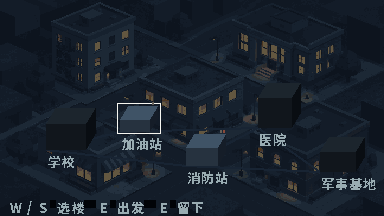
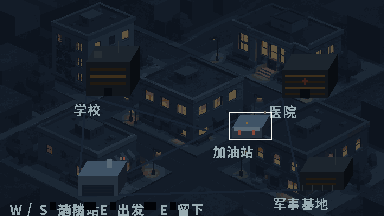
feat(map): 楼位数据驱动 + 每栋楼加可识别细节 + 楼名不再被裁断
你指出的三个问题逐条修：
1) 方块是光板 -> 按职能长细节：
   学校 水塔/天线/三排教室窗/大门；医院 红十字/四排窗/大门；
   加油站 雨棚/两个加油岛/顶灯；消防站 宽卷帘门/晾水塔；军事基地 围栏/天线杆/窄窗
2) 楼名被裁断（『消』）-> 居中后面按文字宽度夹进视口，门禁逐楼断言 x+w<=380
3) 方块不在楼位上 -> 楼位搬到 data/travel/map_layout.json，改位置只改数据不碰代码；
   门禁断言五块在视口内、细节节点齐全、标签不溢出

新增 tools/map_layout_probe.py：把 32px 网格 + 当前锚点十字画到背景上放大 3 倍，
方便对着底图报坐标（我看不到图，锚点对不对得由你判断）

TRAVEL_MAP_OK blocks=5 faces=3 shading=top>front>side depth_sort=ok roads=6
CORRIDOR_EXIT_OK map=open selectable=2 picked=gas_station day=1 sediment=1 fuel_gate=blocked

diff --git a/tools/map_layout_probe.py b/tools/map_layout_probe.py
@@ -1,0 +1,68 @@
+#!/usr/bin/env python3
+# -*- coding: utf-8 -*-
+"""把当前楼位锚点画到背景上，带坐标网格，方便对着底图校正。
+
+为什么需要：生图底图我看不到，锚点是否压在楼上是你的眼睛说了算。
+这张图把 32px 网格、坐标数字和当前锚点（十字 + id）叠上去，
+你只要说「学校应该往右 12、往下 6」，我改 data/travel/map_layout.json 就行。
+
+用法：
+    python tools/map_layout_probe.py            # -> design/previews/MAP_LAYOUT_probe.png
+"""
+
+from __future__ import annotations
+
+import json
+import sys
+from pathlib import Path
+
+from PIL import Image, ImageDraw
+
+ROOT = Path(__file__).resolve().parent.parent
+BG = ROOT / "art" / "generated_candidates" / "maps" / "map_topdown.png"
+LAYOUT = ROOT / "data" / "travel" / "map_layout.json"
+OUT = ROOT / "design" / "previews" / "MAP_LAYOUT_probe.png"
+SCALE = 3
+GRID = 32
+
+
+def main() -> int:
+    if not BG.exists():
+        raise SystemExit(f"missing background: {BG}")
+    base = Image.open(BG).convert("RGB")
+    width, height = base.size
+    canvas = base.copy()
+    draw = ImageDraw.Draw(canvas)
+
+    for x in range(0, width, GRID):
+        draw.line([(x, 0), (x, height)], fill=(60, 80, 96), width=1)
+        draw.text((x + 1, 1), str(x), fill=(150, 170, 180))
+    for y in range(0, height, GRID):
+        draw.line([(0, y), (width, y)], fill=(60, 80, 96), width=1)
+        draw.text((1, y + 1), str(y), fill=(150, 170, 180))
+
+    layout = json.loads(LAYOUT.read_text(encoding="utf-8"))
+    for entry in layout.get("buildings", []):
+        ax, ay = entry["at"]
+        sw, sd = entry["size"]
+        h = entry["height"]
+        # 锚点十字
+        draw.line([(ax - 5, ay), (ax + 5, ay)], fill=(255, 90, 90), width=1)
+        draw.line([(ax, ay - 5), (ax, ay + 5)], fill=(255, 90, 90), width=1)
+        # 楼体轮廓（正面 + 顶面斜边）
+        draw.rectangle([ax, ay - h, ax + sw, ay], outline=(120, 220, 220), width=1)
+        draw.polygon([
+            (ax, ay - h), (ax + sw, ay - h),
+            (ax + sw + sd * 0.6, ay - h - sd), (ax + sd * 0.6, ay - h - sd),
+        ], outline=(120, 220, 220))
+        draw.text((ax + 2, ay - h - sd - 10), f'{entry["id"]} ({ax},{ay})', fill=(240, 240, 230))
+
+    canvas = canvas.resize((width * SCALE, height * SCALE), Image.Resampling.NEAREST)
+    OUT.parent.mkdir(parents=True, exist_ok=True)
+    canvas.save(OUT)
+    print(f"WROTE {OUT}  {canvas.size}  anchors={len(layout.get('buildings', []))}")
+    return 0
+
+
+if __name__ == "__main__":
+    sys.exit(main())
